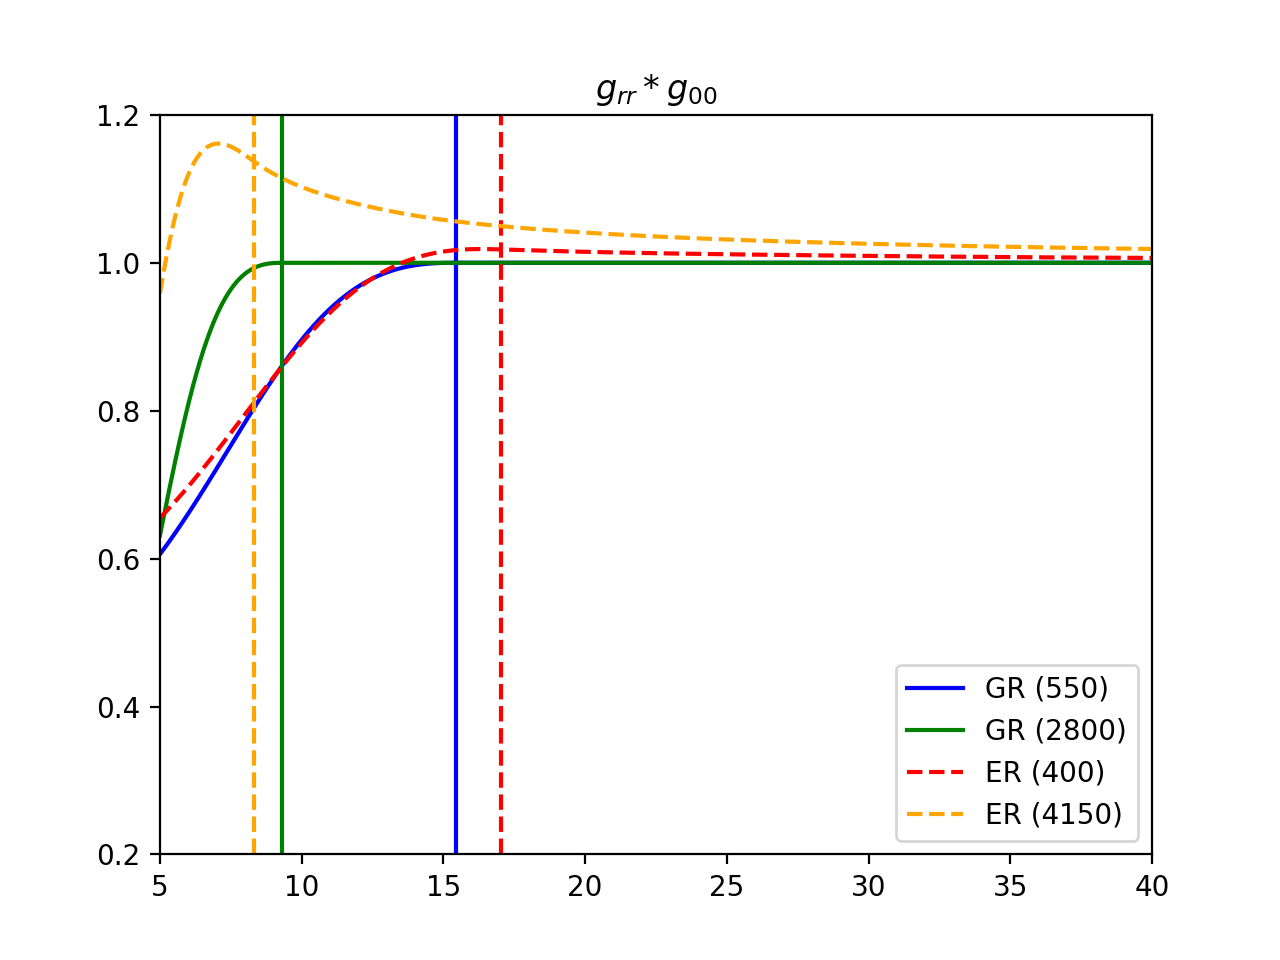
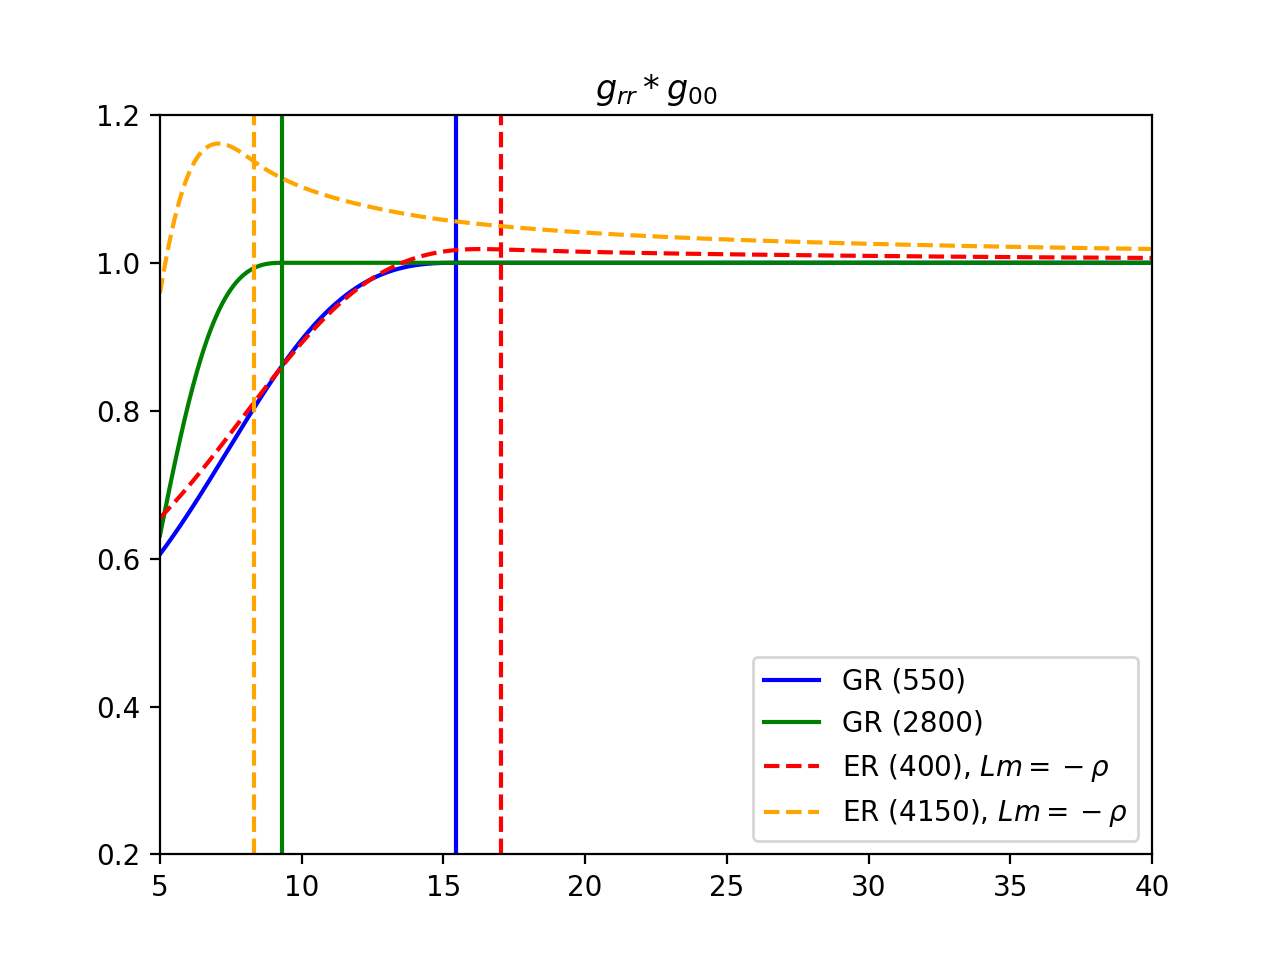
slight modification of figures Shapiro and gg

Changed region(s): [[0.6562, 0.6875, 0.875, 0.875], [0.5938, 0.75, 0.625, 0.7812], [0.5938, 0.6875, 0.625, 0.7188]]

diff --git a/Get_all_figures.py b/Get_all_figures.py
@@ -94,7 +94,8 @@ log_active = False
 rho = np.array([rho_GR[0], rho_GR[1], rho_ER[0], rho_ER[1]])
 
 
-labels = ['GR (%.0f)' %rho[0], 'GR (%.0f)' %rho[1], 'ER (%.0f)' %rho[2], 'ER (%.0f)' %rho[3]]
+# labels = ['GR (%.0f)' %rho[0], 'GR (%.0f)' %rho[1], 'ER (%.0f)' %rho[2], 'ER (%.0f)' %rho[3]]
+labels = ['GR (%.0f)' %rho[0], 'GR (%.0f)' %rho[1], 'ER (%.0f), $Lm = -\\rho$' %rho[2], 'ER (%.0f), $Lm = -\\rho$' %rho[3]]
 rho = rho*cst.eV*10**6/(cst.c**2*cst.fermi**3)
 dilaton_active = [False, False, True, True]
 colors = ['blue', 'green', 'red', 'orange']
